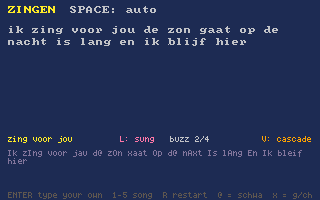
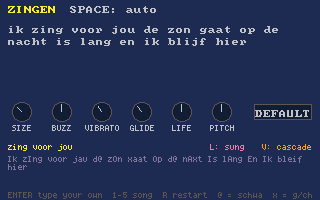
zingen: voice knobs (size, buzz, vibrato, glide, life, pitch) + DEFAULT
A ui.h knob row: SIZE (giant .. child, via new singer_size), BUZZ, VIBRATO,
GLIDE, LIFE (jitter/shimmer), PITCH (±12 semitones); applied on change only.
DEFAULT puts them all back. The per-song vibrato field gives way to the knob.

diff --git a/tools/carts/zingen.c b/tools/carts/zingen.c
@@ -10,12 +10,13 @@
   "description": {
     "summary": "The formant voice sings DUTCH, and whatever you type: pick a lyric or type your own line and it sings it, one syllable per note, reading Dutch spelling by rules (long and short vowels, schwa, ch/g, ui/ij/eu, final devoicing). Song 4 is a lullaby in Mipomi, the playtime Mipos' language.",
     "detail": "lyric.h reads the text into syllables; each note starts the next one: its consonants at note-on, the vowel held while the note is, then the diphthong's second half and the final consonants chained at release ('nacht' = x then t), before the note lets go. The melody is made from the words: a word's last syllable lasts longer, every fourth word breathes. Or play it yourself: every key press sings the next syllable. The bottom line shows the phonemes it read.",
-    "controls": "SPACE = auto-sing on/off · A S D F G H J K = sing the next syllable on that note · 1 2 3 = Dutch lyrics, 4 = a Mipomi lullaby, 5 = your words · ENTER = type your own line (Dutch or Mipomi, TAB switches), ENTER again to hear it sung (it is remembered) · V = formant model (Klatt cascade / parallel) · UP/DOWN = buzz (relaxed and round .. pressed and bright) · L = singer layer on/off (vibrato that blooms in, a living pitch, sung glides) · R = back to the start"
+    "controls": "SPACE = auto-sing on/off · A S D F G H J K = sing the next syllable on that note · 1 2 3 = Dutch lyrics, 4 = a Mipomi lullaby, 5 = your words · ENTER = type your own line (Dutch or Mipomi, TAB switches), ENTER again to hear it sung (it is remembered) · V = formant model (Klatt cascade / parallel) · knobs: SIZE (giant .. child) · BUZZ (relaxed and round .. pressed and bright; also UP/DOWN) · VIBRATO · GLIDE · LIFE (a machine .. shaky) · PITCH (±12 semitones) · DEFAULT puts them back · L = singer layer on/off (vibrato that blooms in, a living pitch, sung glides) · R = back to the start"
   }
 }
 de:meta */
 #include "studio.h"
 #include "lyric.h"
+#include "ui.h"
 #include <stdio.h>
 #include <string.h>
 
@@ -40,18 +41,18 @@ static const MNote FALA_FONI[] = {
     {67,2},{64,4},{62,2},{60,6},{0,2}, {67,2},{69,4},{67,2},{64,2},{62,2},{64,8},{0,4},
     {67,2},{64,2},{62,2},{60,6},{0,2}, {64,2},{62,4},{0,2}, {64,6},{60,10},{0,12},
 };
-typedef struct { const char *name; int lang; const char *text; const MNote *mel; int nmel; int step_fr; float vib; } Song;
+typedef struct { const char *name; int lang; const char *text; const MNote *mel; int nmel; int step_fr; } Song;
 #define USER_MAX 200
 static char user_text[USER_MAX] = "typ hier je eigen woorden en ik zing ze";
 static Song SONGS[5] = {
-    { "zing voor jou", LYR_NL, "ik zing voor jou, de zon gaat op, de nacht is lang en ik blijf hier", 0, 0, 9, 0.25f },
-    { "kunst",         LYR_NL, "kunst en liefde, vrolijk en eeuwig, in het licht van de straat", 0, 0, 9, 0.25f },
-    { "de zee",        LYR_NL, "de zee is groen, de lucht is grijs, ik loop - naar huis door de regen", 0, 0, 9, 0.25f },
+    { "zing voor jou", LYR_NL, "ik zing voor jou, de zon gaat op, de nacht is lang en ik blijf hier", 0, 0, 9 },
+    { "kunst",         LYR_NL, "kunst en liefde, vrolijk en eeuwig, in het licht van de straat", 0, 0, 9 },
+    { "de zee",        LYR_NL, "de zee is groen, de lucht is grijs, ik loop - naar huis door de regen", 0, 0, 9 },
     { "fala, foni (mipomi)", LYR_MIPOMI,
       "mipo fala, fala a foko, mibi i mola, mibi o jojo u jo, fono, foni a foko, "
       "mi i nini, mi i momo u jo, mipo foni, pomo, ni -",
-      FALA_FONI, (int)(sizeof FALA_FONI / sizeof FALA_FONI[0]), 11, 0.35f },
-    { "your words", LYR_NL, user_text, 0, 0, 9, 0.25f },
+      FALA_FONI, (int)(sizeof FALA_FONI / sizeof FALA_FONI[0]), 11 },
+    { "your words", LYR_NL, user_text, 0, 0, 9 },
 };
 #define NSONGS 5
 #define USER   4
@@ -71,17 +72,28 @@ static int fr = 0, note_left = 0, syl_i = 0, rest_left = 0, words = 0;
 static int keyheld = -1;
 static int casc = 1;                 // V: the voice's formant model, 1 = Klatt cascade (the Singer's default), 0 = parallel
 
-static float buzz = 0.5f;            // UP/DOWN: the voice's EFFORT macro = the cascade's BUZZ (relaxed round .. pressed bright)
 static int sung = 1;                 // L: the singer layer (delayed vibrato, jitter/shimmer, legato glides) on/off, to A/B
 
-static int sing_note(int midi) { return singer_on(&sing, midi, 6); }
+// THE VOICE KNOBS (0..1 each; DEFAULT puts them all back). Each maps onto one Singer setting.
+enum { K_SIZE, K_BUZZ, K_VIB, K_GLIDE, K_LIFE, K_PITCH, K_COUNT };
+static const char *K_NAME[K_COUNT] = { "SIZE", "BUZZ", "VIBRATO", "GLIDE", "LIFE", "PITCH" };
+static const float K_DEF[K_COUNT]  = { 0.33f, 0.5f, 0.375f, 0.35f, 0.5f, 0.5f };
+static float kv[K_COUNT];
+static int transpose = 0;            // PITCH: semitones, -12 .. +12
+
+static void apply_voice(void) {
+    singer_size(&sing, kv[K_SIZE]);                       // vocal tract: 0 giant .. 1 child
+    singer_buzz(&sing, kv[K_BUZZ]);                       // relaxed and round .. pressed and bright
+    sing.vib   = sung ? kv[K_VIB] * 0.8f : 0.0f;          // vibrato depth (blooms in after the note starts)
+    sing.glide = sung ? kv[K_GLIDE] * 0.2f : 0.0f;        // legato slide time, 0 .. 0.2 s
+    sing.human = sung ? kv[K_LIFE] * 2.0f : 0.0f;         // jitter + shimmer, 0 (a machine) .. 2 (shaky)
+    transpose  = (int)((kv[K_PITCH] - 0.5f) * 24.0f + (kv[K_PITCH] >= 0.5f ? 0.5f : -0.5f));
+}
+static void voice_defaults(void) { for (int k = 0; k < K_COUNT; k++) kv[k] = K_DEF[k]; apply_voice(); }
+
+static int sing_note(int midi) { return singer_on(&sing, midi + transpose, 6); }
 static char phon[512];
 
-static void apply_sung(void) {
-    sing.vib   = sung ? SONGS[which].vib : 0.0f;
-    sing.human = sung ? 1.0f : 0.0f;
-    sing.glide = sung ? 0.07f : 0.0f;
-}
 
 static void pick_lyric(int k) {
     which = k;
@@ -91,8 +103,7 @@ static void pick_lyric(int k) {
     keyheld = -1;
     singer_init(&sing, &lyr, SLOT);
     sing.parallel = !casc;
-    singer_buzz(&sing, buzz);
-    apply_sung();
+    apply_voice();
     fr = note_left = rest_left = syl_i = words = mel_i = 0;
 }
 
@@ -118,6 +129,7 @@ void init(void) {
         memcpy(user_text, sv.text, USER_MAX);
         SONGS[USER].lang = sv.lang == LYR_MIPOMI ? LYR_MIPOMI : LYR_NL;
     }
+    for (int k = 0; k < K_COUNT; k++) kv[k] = K_DEF[k];
     pick_lyric(0);
 }
 
@@ -198,11 +210,11 @@ static void keys_step(void) {
     if (keyp(' ')) { autop = !autop; singer_off(&sing); note_left = rest_left = 0; }
     for (int k = 0; k < NSONGS; k++) if (keyp('1' + k)) pick_lyric(k);
     if (keyp('V')) { casc = !casc; sing.parallel = !casc; }
-    if (keyp('L')) { sung = !sung; apply_sung(); }
+    if (keyp('L')) { sung = !sung; apply_voice(); }
     if (keyp(KEY_UP) || keyp(KEY_DOWN)) {                 // set-and-hold: only when it changes
-        buzz += keyp(KEY_UP) ? 0.25f : -0.25f;
-        buzz = buzz < 0.0f ? 0.0f : buzz > 1.0f ? 1.0f : buzz;
-        singer_buzz(&sing, buzz);
+        float b = kv[K_BUZZ] + (keyp(KEY_UP) ? 0.25f : -0.25f);
+        kv[K_BUZZ] = b < 0.0f ? 0.0f : b > 1.0f ? 1.0f : b;
+        apply_voice();
     }
     if (keyp('R')) { singer_off(&sing); singer_restart(&sing); syl_i = words = mel_i = note_left = 0; }
     static const char KEYS[8] = { 'A', 'S', 'D', 'F', 'G', 'H', 'J', 'K' };
@@ -240,7 +252,24 @@ static void draw_box(void) {
     font(FONT_NORMAL);
 }
 
+// the knob row + DEFAULT; a turned knob applies at once (set-and-hold: only on a change)
+static void draw_knobs(void) {
+    const int ky = 112;
+    int changed = 0;
+    for (int k = 0; k < K_COUNT; k++) {
+        char lb[16];
+        if (k == K_PITCH) snprintf(lb, sizeof lb, transpose ? "%+d" : "PITCH", transpose);
+        else snprintf(lb, sizeof lb, "%s", K_NAME[k]);
+        font(FONT_SMALL);
+        changed |= ui_knob(&kv[k], 22 + k * 40, ky, lb);
+        font(FONT_NORMAL);
+    }
+    if (changed) apply_voice();
+    if (ui_button(254, ky - 8, 58, 16, "DEFAULT")) voice_defaults();
+}
+
 void draw(void) {
+    ui_begin();
     cls(CLR_DARK_BLUE);
     print("ZINGEN", 8, 6, CLR_YELLOW);
     print(autop ? "SPACE: auto" : "SPACE: you sing (A..K)", 70, 6, CLR_LIGHT_GREY);
@@ -251,14 +280,16 @@ void draw(void) {
         int w = text_width(S->txt);
         if (S->word0 && i) x += 6;
         if (x + w > SCREEN_W - 8) { x = 8; y += 12; }
+        if (y > 86) break;                                // the knobs live below
         int lit = (i == sing.cur);
         if (lit) rectfill(x - 1, y - 2, w + 2, 11, CLR_DARK_PURPLE);
         print(S->txt, x, y, lit ? CLR_WHITE : CLR_LIGHT_GREY);
         x += w + 2;
     }
+    if (!typing) draw_knobs();
     font(FONT_SMALL);
     // the phonemes it read (wrapped)
-    int px = 8, py = 150;
+    int px = 8, py = 156;
     char word[64]; int wn = 0;
     for (const char *p = phon; ; p++) {
         if (*p == ' ' || *p == 0) {
@@ -270,13 +301,13 @@ void draw(void) {
             if (!*p) break;
         } else if (wn < 63) word[wn++] = *p;
     }
-    print(SONGS[which].name, 8, 136, CLR_YELLOW);
-    { char b[24]; snprintf(b, sizeof b, "buzz %d/4", (int)(buzz * 4.0f + 0.5f)); print(b, SCREEN_W - 150, 136, CLR_LIGHT_GREY); }
-    print(sung ? "L: sung" : "L: plain", SCREEN_W - 200, 136, sung ? CLR_PINK : CLR_DARK_GREY);
-    { const char *m = casc ? "V: cascade" : "V: parallel"; print(m, SCREEN_W - 8 - text_width(m), 136, casc ? CLR_ORANGE : CLR_DARK_GREY); }
+    print(SONGS[which].name, 8, 144, CLR_YELLOW);
+    print(sung ? "L: sung" : "L: plain", SCREEN_W - 110, 144, sung ? CLR_PINK : CLR_DARK_GREY);
+    { const char *m = casc ? "V: cascade" : "V: parallel"; print(m, SCREEN_W - 8 - text_width(m), 144, casc ? CLR_ORANGE : CLR_DARK_GREY); }
     print("ENTER type your own  1-5 song  R restart  @ = schwa  x = g/ch", 8, SCREEN_H - 8, CLR_DARK_GREY);
     font(FONT_NORMAL);
     if (typing) draw_box();
+    ui_end();
 }
 
 #ifdef DE_SPEC

diff --git a/runtime/lyric.h b/runtime/lyric.h
@@ -438,6 +438,7 @@ typedef struct {
     int rh, rsyl, rbase, rstage, rk;
     float rat, rt0;
     int parallel;                // 0 (default) = sing through the Klatt CASCADE formants (note_aux 19), 1 = the parallel model
+    float size;                  // vocal-tract SIZE 0 giant .. 1 child (engine idx 1, its own default 0.33); < 0 (default) = leave it. singer_size()
     float buzz;                  // EFFORT / BUZZ 0 relaxed, round .. 1 pressed, bright (breath + open quotient + tilt);
                                  // < 0 (the default) = leave the engine's own. Set with singer_buzz().
     // THE SINGER LAYER (after JIANT FM's, ideas only): what makes a voice sound sung, not played.
@@ -455,6 +456,7 @@ static void singer_init(Singer *s, Lyric *L, int slot) {
     s->slot = slot;
     s->cur = -1;
     s->buzz = -1.0f;
+    s->size = -1.0f;
     s->vib = 0.3f; s->vib_hz = 5.5f; s->vib_delay = 0.25f;
     s->human = 1.0f;
     s->glide = 0.07f;
@@ -470,6 +472,11 @@ static void singer__buzz_poke(int h, float e) {
     note_aux(h, 2, 0.22f - 0.22f * e);                    // breath
     note_aux(h, 3, 0.85f - 0.65f * e);                    // open quotient
     note_aux(h, 4, 0.70f - 0.65f * e);                    // tilt
+}
+// the vocal-tract SIZE on the held note and every next one (0 giant .. 0.33 the voice's own .. 1 child)
+static void singer_size(Singer *s, float x) {
+    s->size = x < 0.0f ? 0.0f : x > 1.0f ? 1.0f : x;
+    if (s->h) note_aux(s->h, 1, s->size);
 }
 static void singer_buzz(Singer *s, float e) {
     s->buzz = e < 0.0f ? 0.0f : e > 1.0f ? 1.0f : e;
@@ -561,6 +568,7 @@ static int singer_on(Singer *s, int midi, int vol) {
     note_aux(h, 18, 0.0f);
     note_aux(h, 19, s->parallel ? 0.0f : 1.0f);           // cascade formants: rounder, more present (chosen by ear)
     if (s->buzz >= 0.0f) singer__buzz_poke(h, s->buzz);
+    if (s->size >= 0.0f) note_aux(h, 1, s->size);
     lyr__place(h, s->base, vf[0], vf[1]);
     voice_coda(h, -1);
     s->on_k = 0; s->on_at = s->t;

diff --git a/docs/design/sung-lyrics.md b/docs/design/sung-lyrics.md
@@ -3,7 +3,8 @@
 STATUS: BUILDING (2026-11-13) — `runtime/lyric.h` reads **Dutch** by spelling rules and sings it on
 `INSTR_VOICE`, one syllable per note, and **Mipomi** (the playtime Mipos' language); the `zingen`
 cart is the demo (three Dutch lyrics + "Fala, Foni", a Mipomi lullaby on a written melody) and runs
-`lyr_selfcheck()` (23 Dutch words + 3 Mipomi phrases, `node tools/spec.js zingen`). Type your own line
+`lyr_selfcheck()` (23 Dutch words + 3 Mipomi phrases, `node tools/spec.js zingen`). Voice knobs in zingen (SIZE,
+BUZZ, VIBRATO, GLIDE, LIFE, PITCH + DEFAULT; `singer_size`/`singer_buzz` + the Singer fields). Type your own line
 in zingen (ENTER, TAB = Dutch/Mipomi, ENTER again: it sings it; remembered with `save_bytes`).
 
 ## Where it came from
